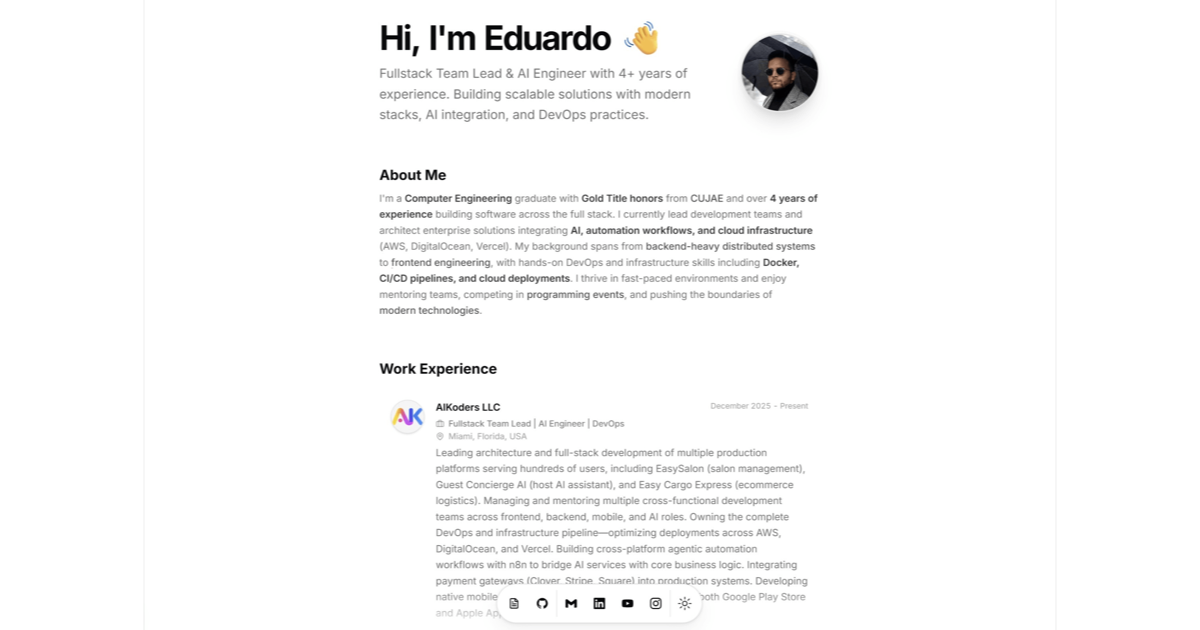
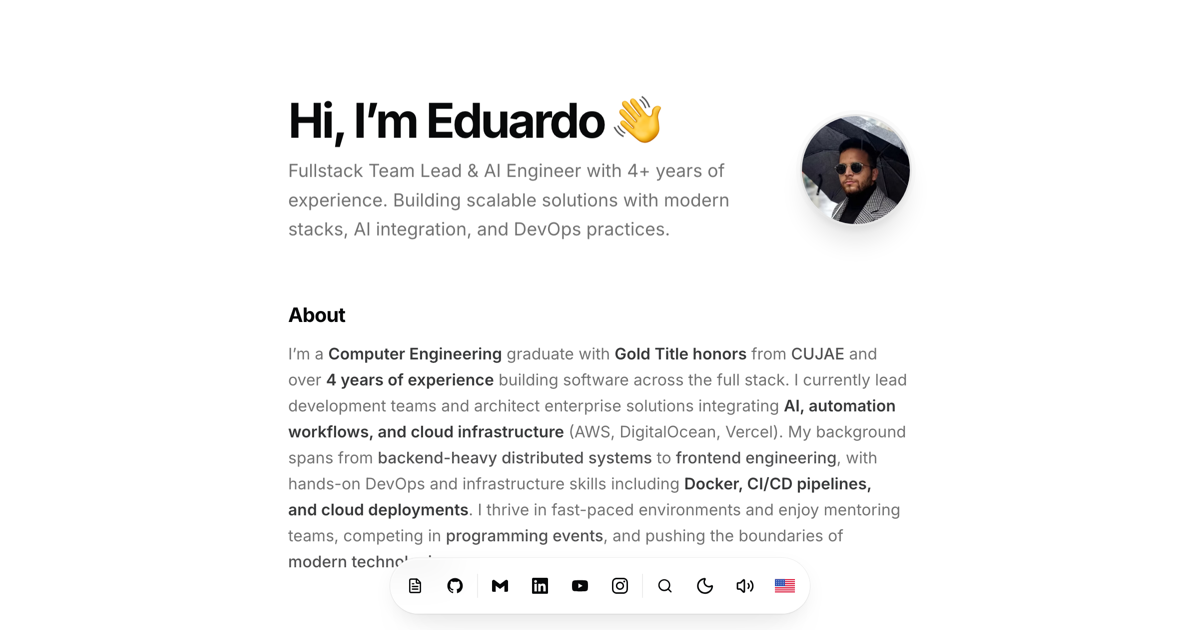
fix: contrast

Changed region(s): [[0.2467, 0.5429, 0.7708, 0.9651], [0.2158, 0.0302, 0.7708, 0.5127], [0.6167, 0.0603, 0.7092, 0.181]]

diff --git a/src/components/main/spotlight.tsx b/src/components/main/spotlight.tsx
@@ -463,7 +463,7 @@ export function Spotlight() {
                     aria-label={t("cmd.placeholder")}
                     className="h-13 w-full bg-transparent py-4 text-sm outline-none placeholder:text-muted-foreground"
                   />
-                  <kbd className="hidden shrink-0 rounded-md border border-border/70 px-1.5 py-0.5 text-2xs font-medium text-muted-foreground sm:block">
+                  <kbd className="hidden shrink-0 rounded-md border border-border/70 bg-background px-1.5 py-0.5 text-2xs font-medium text-foreground/70 sm:block">
                     esc
                   </kbd>
                 </div>
@@ -479,7 +479,7 @@ export function Spotlight() {
                     return (
                       <div key={item.id}>
                         {header && (
-                          <p className="px-3 pb-1 pt-3 text-2xs font-semibold uppercase tracking-wider text-muted-foreground/70">
+                          <p className="px-3 pb-1 pt-3 text-2xs font-semibold uppercase tracking-wider text-muted-foreground">
                             {header}
                           </p>
                         )}
@@ -498,7 +498,7 @@ export function Spotlight() {
                           <Icon className="size-4 shrink-0 text-muted-foreground" />
                           <span className="flex-1 truncate">{item.label}</span>
                           {item.hint && (
-                            <kbd className="shrink-0 rounded-md border border-border/70 px-1.5 py-0.5 text-2xs font-medium text-muted-foreground">
+                            <kbd className="shrink-0 rounded-md border border-border/70 bg-background px-1.5 py-0.5 text-2xs font-medium text-foreground/70">
                               {item.hint}
                             </kbd>
                           )}
@@ -525,7 +525,7 @@ export function Spotlight() {
                         {row.keys.map((key) => (
                           <kbd
                             key={key}
-                            className="min-w-6 rounded-md border border-border/70 bg-background/60 px-1.5 py-0.5 text-center text-2xs font-medium text-muted-foreground"
+                            className="min-w-6 text-center rounded-md border border-border/70 bg-background px-1.5 py-0.5 text-2xs font-medium text-foreground/70"
                           >
                             {key}
                           </kbd>
@@ -537,7 +537,7 @@ export function Spotlight() {
                 <p className="mt-4 flex items-center justify-center gap-1.5 text-2xs text-muted-foreground">
                   <Check className="size-3" />
                   {t("keys.close")}
-                  <kbd className="rounded-md border border-border/70 px-1 py-0.5 text-2xs">
+                  <kbd className="rounded-md border border-border/70 bg-background px-1.5 py-0.5 text-2xs font-medium text-foreground/70">
                     esc
                   </kbd>
                 </p>

diff --git a/src/components/main/resume-card.tsx b/src/components/main/resume-card.tsx
@@ -96,13 +96,13 @@ export const ResumeCard = ({
               </h3>
               {subtitle && (
                 <div className="flex items-center gap-1.5 mt-1 translate-x-0 group-hover:translate-x-0.5 transition-transform duration-240 ease-state">
-                  <Briefcase className="size-3 text-muted-foreground/70 flex-shrink-0 group-hover:text-muted-foreground transition-colors duration-240 ease-state" />
+                  <Briefcase className="size-3 text-muted-foreground flex-shrink-0 group-hover:text-foreground transition-colors duration-240 ease-state" />
                   <span className="text-xs text-muted-foreground font-medium">{subtitle}</span>
                 </div>
               )}
               {location && (
                 <div className="flex items-center gap-1.5 mt-0.5 translate-x-0 group-hover:translate-x-0.5 transition-transform duration-240 ease-state delay-75">
-                  <MapPin className="size-3 text-muted-foreground/70 flex-shrink-0 group-hover:text-muted-foreground transition-colors duration-240 ease-state" />
+                  <MapPin className="size-3 text-muted-foreground flex-shrink-0 group-hover:text-foreground transition-colors duration-240 ease-state" />
                   <span className="text-xs text-muted-foreground">{location}</span>
                 </div>
               )}
@@ -125,7 +125,7 @@ export const ResumeCard = ({
           </div>
         </CardHeader>
         {description && (
-          <CardContent className="text-xs sm:text-sm text-pretty hyphenate leading-relaxed text-muted-foreground group-hover:text-muted-foreground/90 transition-colors duration-240 ease-state">
+          <CardContent className="text-xs sm:text-sm text-pretty hyphenate leading-relaxed text-muted-foreground transition-colors duration-240 ease-state">
             {description}
           </CardContent>
         )}

diff --git a/src/components/main/event-card.tsx b/src/components/main/event-card.tsx
@@ -67,13 +67,13 @@ export function EventCard({
 
         <div className="flex items-center gap-3 flex-wrap transition-transform duration-240 ease-state delay-75 group-hover:translate-x-0.5">
           {dates && (
-            <span className="flex items-center gap-1 text-xs text-muted-foreground/70 group-hover:text-muted-foreground transition-colors duration-240 ease-state">
+            <span className="flex items-center gap-1 text-xs text-muted-foreground group-hover:text-foreground transition-colors duration-240 ease-state">
               <Calendar className="size-3" />
               {dates}
             </span>
           )}
           {location && (
-            <span className="flex items-center gap-1 text-xs text-muted-foreground/70 group-hover:text-muted-foreground transition-colors duration-240 ease-state">
+            <span className="flex items-center gap-1 text-xs text-muted-foreground group-hover:text-foreground transition-colors duration-240 ease-state">
               <MapPin className="size-3" />
               {location}
             </span>
@@ -81,7 +81,7 @@ export function EventCard({
         </div>
 
         {description && (
-          <p className="text-sm text-pretty hyphenate text-muted-foreground leading-relaxed group-hover:text-muted-foreground/90 transition-colors duration-240 ease-state">
+          <p className="text-sm text-pretty hyphenate text-muted-foreground leading-relaxed transition-colors duration-240 ease-state">
             {description}
           </p>
         )}

diff --git a/src/components/common/github-stars.tsx b/src/components/common/github-stars.tsx
@@ -44,7 +44,7 @@ export function GitHubStars({ repo }: { repo: string }) {
   if (stars === null) return null;
 
   return (
-    <span className="group/stars inline-flex items-center gap-1 text-2xs text-muted-foreground/70 bg-secondary/50 px-2 py-0.5 rounded-full border border-border/50 hover:border-yellow-500/30 hover:bg-yellow-500/5 transition-all duration-240 ease-state cursor-default">
+    <span className="group/stars inline-flex items-center gap-1 text-2xs text-muted-foreground bg-secondary/50 px-2 py-0.5 rounded-full border border-border/50 hover:border-yellow-500/30 hover:bg-yellow-500/5 transition-all duration-240 ease-state cursor-default">
       <Star className="size-3 fill-yellow-500/70 text-yellow-500/70 group-hover/stars:fill-yellow-500 group-hover/stars:text-yellow-500 group-hover/stars:scale-110 transition-all duration-240 ease-state" />
       <span className="tabular-nums group-hover/stars:text-foreground/80 transition-colors duration-240 ease-state">
         {formatStars(stars)}

diff --git a/src/components/magicui/icon-cloud.tsx b/src/components/magicui/icon-cloud.tsx
@@ -39,8 +39,11 @@ export const cloudProps: Omit<ICloud, "children"> = {
 };
 
 export const renderCustomIcon = (icon: SimpleIcon, theme: string) => {
-  const bgHex = theme === "light" ? "#f3f2ef" : "#080510";
-  const fallbackHex = theme === "light" ? "#6e6e73" : "#ffffff";
+  // These feed the contrast maths inside `renderSimpleIcon`, so they have to
+  // be the background the icons are actually drawn on. #f3f2ef and #080510 were
+  // a warm grey and a purple-black — neither is a colour this site uses.
+  const bgHex = theme === "light" ? "#ffffff" : "#08090a";
+  const fallbackHex = theme === "light" ? "#737373" : "#fafafa";
   const minContrastRatio = theme === "dark" ? 2 : 1.2;
 
   return renderSimpleIcon({

diff --git a/src/app/page.tsx b/src/app/page.tsx
@@ -49,7 +49,7 @@ export default function Page() {
                 />
               </BlurFade>
               <BlurFade eager delay={entrance(ENTRANCE.heroDescription)}>
-                <p className="max-w-[600px] text-pretty text-muted-foreground md:text-lg leading-relaxed hover:text-muted-foreground/80 transition-colors duration-240 ease-state">
+                <p className="max-w-[600px] text-pretty text-muted-foreground md:text-lg leading-relaxed transition-colors duration-240 ease-state">
                   {t("hero.description")}
                 </p>
               </BlurFade>

diff --git a/src/components/main/sound-control.tsx b/src/components/main/sound-control.tsx
@@ -237,7 +237,7 @@ export function SoundControl() {
         onClick={toggle}
         className={cn(
           buttonVariants({ variant: "ghost", size: "icon" }),
-          "px-2 cursor-pointer text-neutral-800 dark:text-neutral-200"
+          "px-2 cursor-pointer text-foreground"
         )}
       >
         {/* Keyed on the bucket, so the icon springs when it changes rather than

diff --git a/src/components/main/mode-toggle.tsx b/src/components/main/mode-toggle.tsx
@@ -29,7 +29,7 @@ export function ModeToggle() {
       title={t("nav.theme")}
       className={cn(
         buttonVariants({ variant: "ghost", size: "icon" }),
-        "px-2 cursor-pointer text-neutral-800 dark:text-neutral-200"
+        "px-2 cursor-pointer text-foreground"
       )}
     />
   );
